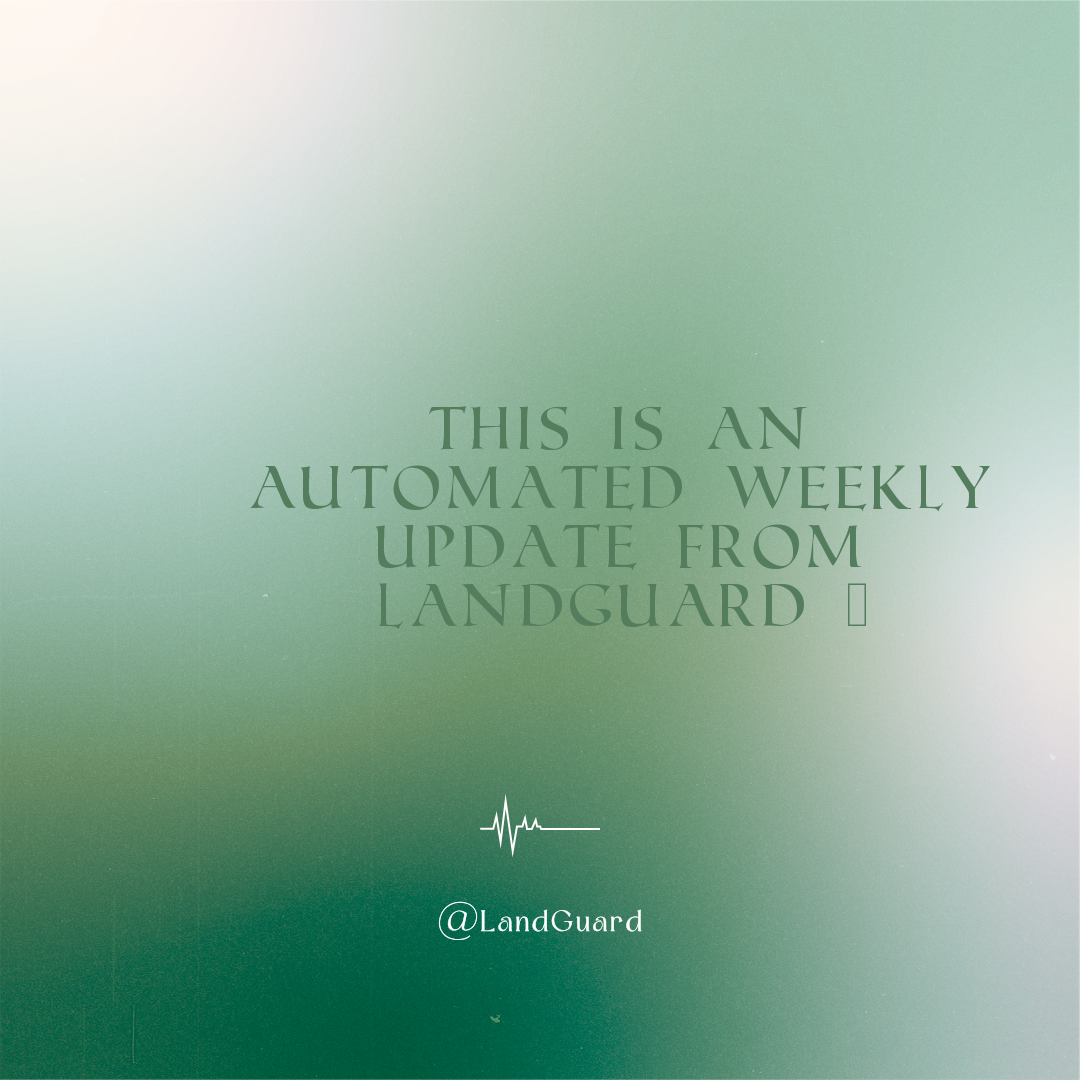
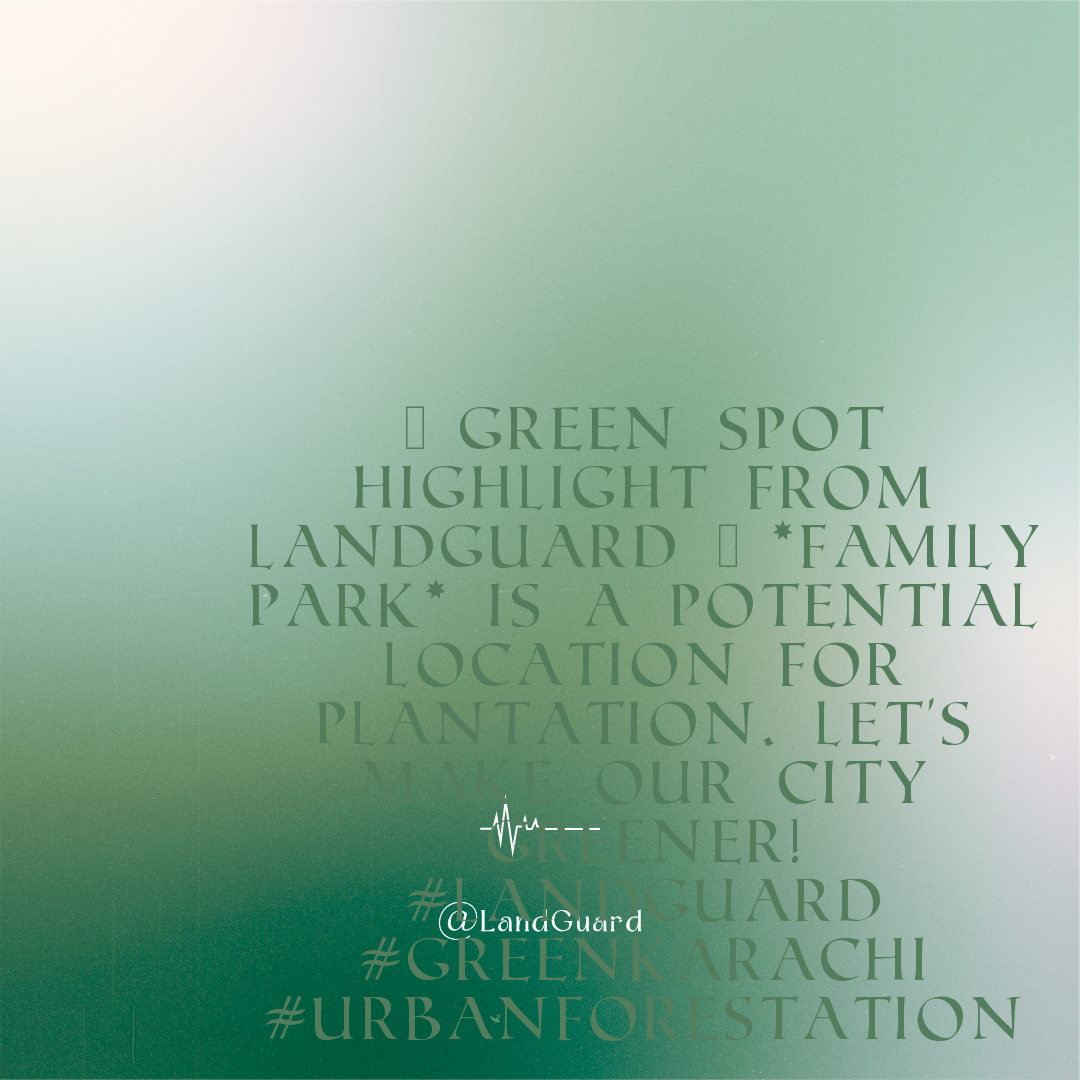
updated fb posts with data

diff --git a/landguard_be/api/tasks.py b/landguard_be/api/tasks.py
@@ -1,12 +1,28 @@
-# myapp/tasks.py
+import random
 from .utils.generate_image_utils import generate_image_with_message
 from .utils.facebook_utils import post_to_facebook
+from .utils.db_utils import get_mongo_collection
 
 def scheduled_post_to_facebook():
-    message = "This is an automated weekly update from LandGuard 🌱"
     try:
+        collection = get_mongo_collection(collection_name="locations")
+
+        places = [doc.get("place_name", "Unknown Place") for doc in collection.find({}, {"_id": 0, "place_name": 1})]
+
+        if not places:
+            print("No locations found.")
+            return
+
+        place_name = random.choice(places)
+
+        message = (
+            f"Green Spot Highlight from LandGuard"
+            f"{place_name} is available for plantation.\n"
+        )
+
         image_path = generate_image_with_message(message)
         result = post_to_facebook(message, image_path)
         print("Scheduled post result:", result)
+
     except Exception as e:
         print("Scheduled post failed:", str(e))
